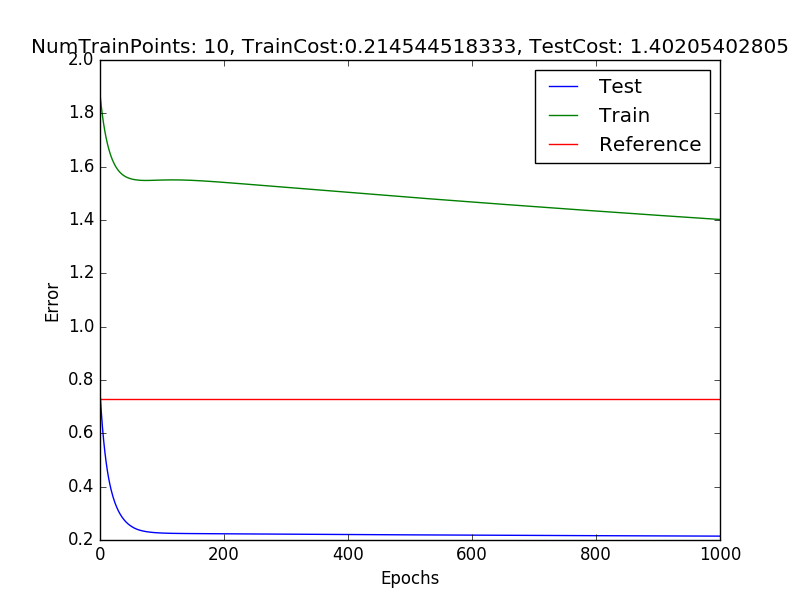
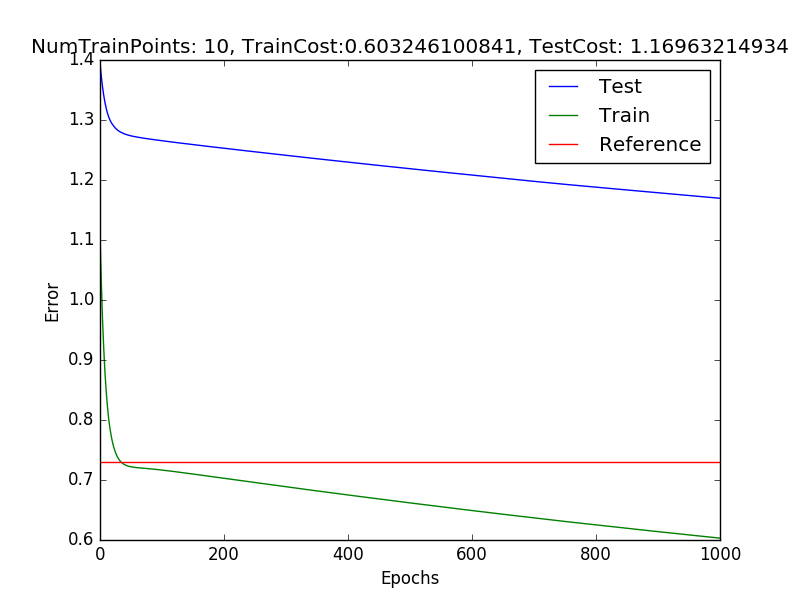
fixed test train plot bug

diff --git a/MLP_synthetic/mlp_synthetic.py b/MLP_synthetic/mlp_synthetic.py
@@ -84,8 +84,8 @@ def run_test(L2reg=0.01, hidden_width=10, mini_batchsize=100,numTrainPoints=2000
         #Done this cost prediction needs to change
         #fin_cost_test = fcost(predict(X_test), floatX(y_test).reshape(len(y_test), 1))
         #fin_cost_train = fcost(predict(X_train), floatX(y_train).reshape(len(y_train), 1))
-        fin_cost_test =MSE(predict(X_train),y_train)
-        fin_cost_train = MSE(predict(X_test),y_test)
+        fin_cost_test =MSE(predict(X_test),y_test)
+        fin_cost_train = MSE(predict(X_train),y_train)
         test_costs.append(fin_cost_test)
         train_costs.append(fin_cost_train)
         #print i, fin_cost_test, fin_cost_train
